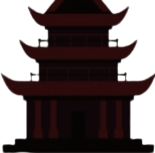
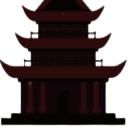
new images

diff --git a/src/main.js b/src/main.js
@@ -23,17 +23,6 @@ let totalScoreUni = document.querySelector('#total-number-uni')
 //   Images
 //--------------
 
-//------------------- test -------------------
-
-// let ninja = new Image();
-// ninja.src = '../img/ninja/ninja_ani4.png'
-
-
-//------------------- test -------------------
-
-
-
-
 let ground = new Image();
 ground.src  = '../img/background/ground.png'
 
@@ -52,6 +41,8 @@ let building_3 = new Image();
 building_3.src = '../img/building/building3-removebg-preview.png';
 let building_4 = new Image();
 building_4.src = '../img/building/building4-removebg-preview.png';
+let building_5 = new Image();
+building_5.src = '../img/building/building5-removebg-preview.png';
 
 // Trees images
 let tree1 = new Image();
@@ -90,7 +81,7 @@ let building_1X = 640, building_1Y = 420;
 let building_2X = 1350, building_2Y = 430;
 let building_3X = 1750, building_3Y = 423;
 let building_4X = 2100, building_4Y = 420;
-// let building_5X = 1750, building_5Y = 460;
+let building_5X = 2500, building_5Y = 460;
 // let building_6X = 1950, building_6Y = 440;
 // let building_7X = 2250, building_7Y = 460;
 
@@ -120,41 +111,18 @@ let buildingsArr = [
     {img: building_2, x:building_2X , y:building_2Y },
     {img: building_3, x:building_3X , y:building_3Y },  
     {img: building_4, x:building_4X , y:building_4Y },
-    // {img: building_5, x:building_5X , y:building_5Y },
+    {img: building_5, x:building_5X , y:building_5Y },
     // {img: building_6, x:building_6X , y:building_6Y },
     // {img: building_7, x:building_7X , y:building_7Y }
 ];
 
-let buildingImg = [building_1, building_2, building_3, building_4]
+let buildingImg = [building_1, building_2, building_3, building_4, building_5]
 
 //--------------
 // functions
 //--------------
 
-//ninja function
-// first version
-// function ninjaJump(){ 
-    
-//     if (jump){
-//         up = up * gravity
-//         ninjaY -= up   
-        
-//             if (ninjaY < 300){
-//                 jump = false;
-//             }
 
-//        }else{  
-//             if (ninjaY < groundY){ 
-//                 down = down * 1.07
-//                 ninjaY += down 
-//             }    
-//              if ( ninjaY > groundY){
-//                 ninjaY 
-//                 down = 3;
-//                 up = 10;
-//              }
-//        }
-// }
 let onTopOfBuilding = false;
 // Ninja jump second version
 function ninjaJump(){ 
@@ -162,7 +130,7 @@ function ninjaJump(){
        up = up * gravity
         ninjaY -= up   
         
-           if (ninjaY < 320){
+           if (ninjaY < 310){
                 jump = false;
             }
     }
@@ -252,15 +220,6 @@ function printScore() {
 
 
 
-
-
-//  ------------  Animation test --------------
-// const spritewidth =  74.5
-// const spriteHeigh = 120
-// let frameX = 0;
-// let frameY = 0;
-//  ------------  Animation test --------------
-
 //Draw function to animate
 function draw(){
 
@@ -274,25 +233,10 @@ function draw(){
          
         treeArr[i].x -= speedTree
         if( treeArr[i].x < 0 ) {
-            treeArr[i].x = tree3X + 900;
+            treeArr[i].x = tree3X + 700;
             treeArr[i].img = treeImg[Math.floor( Math.random() * (treeImg.length) )]
         }
     }
-
-
-
-
-    // ------------- test animation --------------
-    // ctx.drawImage(ninja, frameX * spritewidth, frameY * spriteHeigh, spritewidth, spriteHeigh, ninjaX, ninjaY, spritewidth, spriteHeigh )
-
-    // if (frameX < 8) {
-    //     frameX++
-    // }else{
-    //     frameX = 0
-    // }
-
-      // ------------- test animation --------------
-
 
     //Ninja image
    ctx.drawImage( ninja, ninjaX, ninjaY )
@@ -345,8 +289,8 @@ function draw(){
         //Collision detection
         if (
             ninjaX < buildingsArr[i].x && 
-            ninjaX + ninja.width > buildingsArr[i].x &&  
-            ninjaY + 15 > buildingsArr[i].y
+            (ninjaX + ninja.width) - 1.5 > buildingsArr[i].x &&  
+            ninjaY > buildingsArr[i].y
             ) {
 
             gameOver = true;
@@ -371,7 +315,7 @@ function draw(){
          
         buildingsArr[i].x -= speed
         if( buildingsArr[i].x < 0 ) {
-            buildingsArr[i].x = building_4X + 600;
+            buildingsArr[i].x = building_5X + 750;
             buildingsArr[i].img = buildingImg[Math.floor( Math.random() * (buildingImg.length) )]
         }
     
